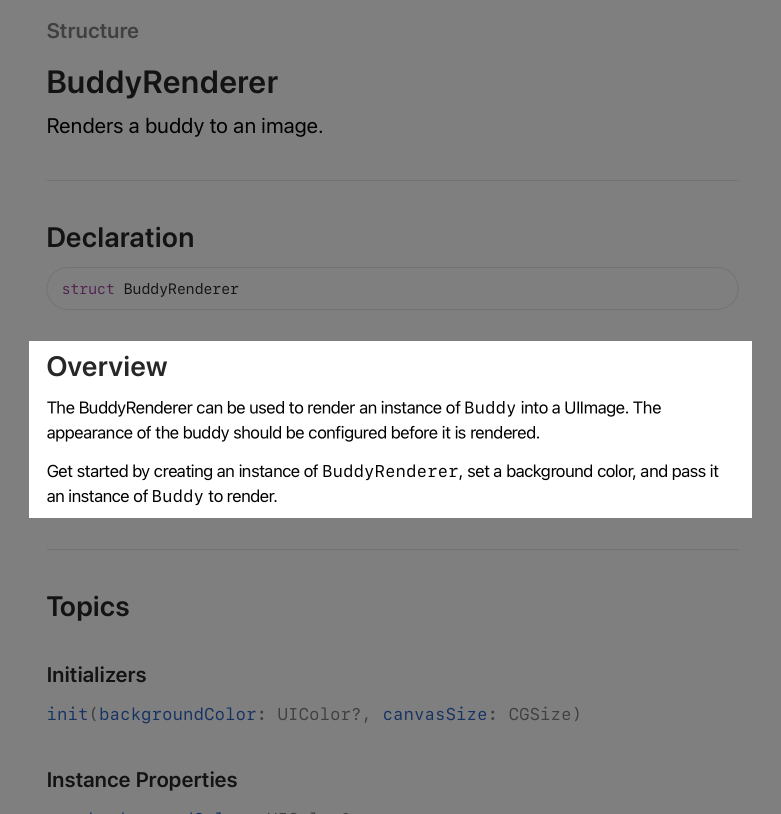
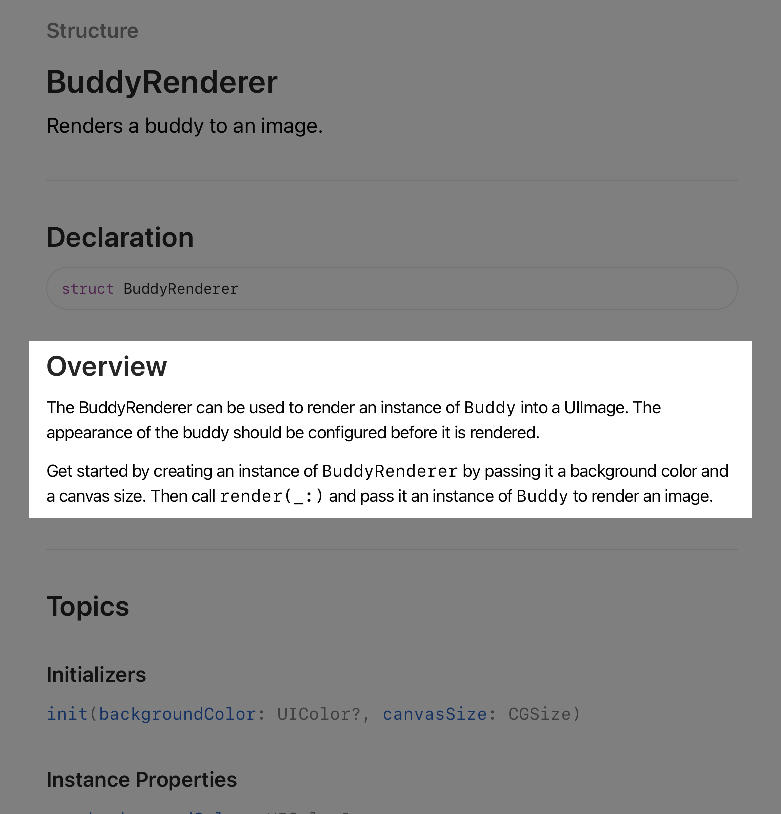
Improves documentation of BuddyRenderer

diff --git a/LearningMaterial/Sources/LearningMaterial/Documentation.docc/Tutorials/01-writing-the-first-documentation-02-11.swift b/LearningMaterial/Sources/LearningMaterial/Documentation.docc/Tutorials/01-writing-the-first-documentation-02-11.swift
@@ -4,17 +4,18 @@ import UIKit
 ///
 /// The BuddyRenderer can be used to render an instance of ``Buddy`` into a UIImage. The appearance of the buddy should be configured before it is rendered.
 ///
-/// Get started by creating an instance of `BuddyRenderer`, set a background color, and pass it an instance of ``Buddy`` to render.
+/// Get started by creating an instance of `BuddyRenderer` by passing it a background color and a canvas size. Then call ``render(_:)`` and pass it an instance of ``Buddy`` to render an image.
 ///
 /// ```swift
 /// let buddy = Buddy()
-/// let renderer = BuddyRenderer(backgroundColor: .systemPurple)
+/// let canvasSize = CGSize(width: 600, height: 600)
+/// let renderer = BuddyRenderer(backgroundColor: .systemPurple, canvasSize: canvasSize)
 /// let image = renderer.render(buddy)
 /// ```
 ///
 /// Here's an image produced by an instance of `BuddyRenderer`:
 ///
-/// ![A character produced by BuildABuddyKit rendered on a background with a solid color](buddyrenderer-output-example.jpeg)
+/// ![](buddyrenderer-output-example.jpeg)
 public struct BuddyRenderer {
     /// The background color of the rendered image.
     ///
@@ -41,6 +42,7 @@ public struct BuddyRenderer {
     /// - Parameter buddy: The buddy to render.
     /// - Returns: A UIImage representation of the rendered image.
     public func render(_ buddy: Buddy) -> UIImage {
+        let scale = CGPoint(x: canvasSize.width / 600, y: canvasSize.height / 600)
         let format = UIGraphicsImageRendererFormat()
         format.scale = 1
         format.opaque = false
@@ -60,6 +62,7 @@ public struct BuddyRenderer {
                     // Rotate the image and then render the rotated image. This makes it easier to transfer values from Sketch to code.
                     let transformedImage = image.flipped(asset.flipped).rotated(by: asset.rotation)
                     cgContext.saveGState()
+                    cgContext.scaleBy(x: scale.x, y: scale.y)
                     transformedImage.draw(at: asset.position)
                     cgContext.restoreGState()
                 }

diff --git a/LearningMaterial/Sources/LearningMaterial/Documentation.docc/Tutorials/01-writing-the-first-documentation-02-09.swift b/LearningMaterial/Sources/LearningMaterial/Documentation.docc/Tutorials/01-writing-the-first-documentation-02-09.swift
@@ -4,11 +4,12 @@ import UIKit
 ///
 /// The BuddyRenderer can be used to render an instance of ``Buddy`` into a UIImage. The appearance of the buddy should be configured before it is rendered.
 ///
-/// Get started by creating an instance of `BuddyRenderer`, set a background color, and pass it an instance of ``Buddy`` to render.
+/// Get started by creating an instance of `BuddyRenderer` by passing it a background color and a canvas size. Then call ``render(_:)`` and pass it an instance of ``Buddy`` to render an image.
 ///
 /// ```swift
 /// let buddy = Buddy()
-/// let renderer = BuddyRenderer(backgroundColor: .systemPurple)
+/// let canvasSize = CGSize(width: 600, height: 600)
+/// let renderer = BuddyRenderer(backgroundColor: .systemPurple, canvasSize: canvasSize)
 /// let image = renderer.render(buddy)
 /// ```
 public struct BuddyRenderer {
@@ -37,6 +38,7 @@ public struct BuddyRenderer {
     /// - Parameter buddy: The buddy to render.
     /// - Returns: A UIImage representation of the rendered image.
     public func render(_ buddy: Buddy) -> UIImage {
+        let scale = CGPoint(x: canvasSize.width / 600, y: canvasSize.height / 600)
         let format = UIGraphicsImageRendererFormat()
         format.scale = 1
         format.opaque = false
@@ -56,6 +58,7 @@ public struct BuddyRenderer {
                     // Rotate the image and then render the rotated image. This makes it easier to transfer values from Sketch to code.
                     let transformedImage = image.flipped(asset.flipped).rotated(by: asset.rotation)
                     cgContext.saveGState()
+                    cgContext.scaleBy(x: scale.x, y: scale.y)
                     transformedImage.draw(at: asset.position)
                     cgContext.restoreGState()
                 }

diff --git a/LearningMaterial/Sources/LearningMaterial/Documentation.docc/Tutorials/01-writing-the-first-documentation-02-10.swift b/LearningMaterial/Sources/LearningMaterial/Documentation.docc/Tutorials/01-writing-the-first-documentation-02-10.swift
@@ -4,11 +4,12 @@ import UIKit
 ///
 /// The BuddyRenderer can be used to render an instance of ``Buddy`` into a UIImage. The appearance of the buddy should be configured before it is rendered.
 ///
-/// Get started by creating an instance of `BuddyRenderer`, set a background color, and pass it an instance of ``Buddy`` to render.
+/// Get started by creating an instance of `BuddyRenderer` by passing it a background color and a canvas size. Then call ``render(_:)`` and pass it an instance of ``Buddy`` to render an image.
 ///
 /// ```swift
 /// let buddy = Buddy()
-/// let renderer = BuddyRenderer(backgroundColor: .systemPurple)
+/// let canvasSize = CGSize(width: 600, height: 600)
+/// let renderer = BuddyRenderer(backgroundColor: .systemPurple, canvasSize: canvasSize)
 /// let image = renderer.render(buddy)
 /// ```
 ///
@@ -39,6 +40,7 @@ public struct BuddyRenderer {
     /// - Parameter buddy: The buddy to render.
     /// - Returns: A UIImage representation of the rendered image.
     public func render(_ buddy: Buddy) -> UIImage {
+        let scale = CGPoint(x: canvasSize.width / 600, y: canvasSize.height / 600)
         let format = UIGraphicsImageRendererFormat()
         format.scale = 1
         format.opaque = false
@@ -58,6 +60,7 @@ public struct BuddyRenderer {
                     // Rotate the image and then render the rotated image. This makes it easier to transfer values from Sketch to code.
                     let transformedImage = image.flipped(asset.flipped).rotated(by: asset.rotation)
                     cgContext.saveGState()
+                    cgContext.scaleBy(x: scale.x, y: scale.y)
                     transformedImage.draw(at: asset.position)
                     cgContext.restoreGState()
                 }

diff --git a/LearningMaterial/Sources/LearningMaterial/Documentation.docc/Tutorials/01-writing-the-first-documentation-02-05.swift b/LearningMaterial/Sources/LearningMaterial/Documentation.docc/Tutorials/01-writing-the-first-documentation-02-05.swift
@@ -4,11 +4,12 @@ import UIKit
 ///
 /// The BuddyRenderer can be used to render an instance of ``Buddy`` into a UIImage. The appearance of the buddy should be configured before it is rendered.
 ///
-/// Get started by creating an instance of `BuddyRenderer`, set a background color, and pass it an instance of ``Buddy`` to render.
+/// Get started by creating an instance of `BuddyRenderer` by passing it a background color and a canvas size. Then call ``render(_:)`` and pass it an instance of ``Buddy`` to render an image.
 ///
 /// ```swift
 /// let buddy = Buddy()
-/// let renderer = BuddyRenderer(backgroundColor: .systemPurple)
+/// let canvasSize = CGSize(width: 600, height: 600)
+/// let renderer = BuddyRenderer(backgroundColor: .systemPurple, canvasSize: canvasSize)
 /// let image = renderer.render(buddy)
 /// ```
 public struct BuddyRenderer {
@@ -21,6 +22,7 @@ public struct BuddyRenderer {
     }
 
     public func render(_ buddy: Buddy) -> UIImage {
+        let scale = CGPoint(x: canvasSize.width / 600, y: canvasSize.height / 600)
         let format = UIGraphicsImageRendererFormat()
         format.scale = 1
         format.opaque = false
@@ -40,6 +42,7 @@ public struct BuddyRenderer {
                     // Rotate the image and then render the rotated image. This makes it easier to transfer values from Sketch to code.
                     let transformedImage = image.flipped(asset.flipped).rotated(by: asset.rotation)
                     cgContext.saveGState()
+                    cgContext.scaleBy(x: scale.x, y: scale.y)
                     transformedImage.draw(at: asset.position)
                     cgContext.restoreGState()
                 }

diff --git a/LearningMaterial/Sources/LearningMaterial/Documentation.docc/Tutorials/01-writing-the-first-documentation-02-06.swift b/LearningMaterial/Sources/LearningMaterial/Documentation.docc/Tutorials/01-writing-the-first-documentation-02-06.swift
@@ -4,11 +4,12 @@ import UIKit
 ///
 /// The BuddyRenderer can be used to render an instance of ``Buddy`` into a UIImage. The appearance of the buddy should be configured before it is rendered.
 ///
-/// Get started by creating an instance of `BuddyRenderer`, set a background color, and pass it an instance of ``Buddy`` to render.
+/// Get started by creating an instance of `BuddyRenderer` by passing it a background color and a canvas size. Then call ``render(_:)`` and pass it an instance of ``Buddy`` to render an image.
 ///
 /// ```swift
 /// let buddy = Buddy()
-/// let renderer = BuddyRenderer(backgroundColor: .systemPurple)
+/// let canvasSize = CGSize(width: 600, height: 600)
+/// let renderer = BuddyRenderer(backgroundColor: .systemPurple, canvasSize: canvasSize)
 /// let image = renderer.render(buddy)
 /// ```
 public struct BuddyRenderer {
@@ -27,6 +28,7 @@ public struct BuddyRenderer {
     }
 
     public func render(_ buddy: Buddy) -> UIImage {
+        let scale = CGPoint(x: canvasSize.width / 600, y: canvasSize.height / 600)
         let format = UIGraphicsImageRendererFormat()
         format.scale = 1
         format.opaque = false
@@ -46,6 +48,7 @@ public struct BuddyRenderer {
                     // Rotate the image and then render the rotated image. This makes it easier to transfer values from Sketch to code.
                     let transformedImage = image.flipped(asset.flipped).rotated(by: asset.rotation)
                     cgContext.saveGState()
+                    cgContext.scaleBy(x: scale.x, y: scale.y)
                     transformedImage.draw(at: asset.position)
                     cgContext.restoreGState()
                 }

diff --git a/LearningMaterial/Sources/LearningMaterial/Documentation.docc/Tutorials/01-writing-the-first-documentation-02-07.swift b/LearningMaterial/Sources/LearningMaterial/Documentation.docc/Tutorials/01-writing-the-first-documentation-02-07.swift
@@ -4,11 +4,12 @@ import UIKit
 ///
 /// The BuddyRenderer can be used to render an instance of ``Buddy`` into a UIImage. The appearance of the buddy should be configured before it is rendered.
 ///
-/// Get started by creating an instance of `BuddyRenderer`, set a background color, and pass it an instance of ``Buddy`` to render.
+/// Get started by creating an instance of `BuddyRenderer` by passing it a background color and a canvas size. Then call ``render(_:)`` and pass it an instance of ``Buddy`` to render an image.
 ///
 /// ```swift
 /// let buddy = Buddy()
-/// let renderer = BuddyRenderer(backgroundColor: .systemPurple)
+/// let canvasSize = CGSize(width: 600, height: 600)
+/// let renderer = BuddyRenderer(backgroundColor: .systemPurple, canvasSize: canvasSize)
 /// let image = renderer.render(buddy)
 /// ```
 public struct BuddyRenderer {
@@ -31,6 +32,7 @@ public struct BuddyRenderer {
     }
 
     public func render(_ buddy: Buddy) -> UIImage {
+        let scale = CGPoint(x: canvasSize.width / 600, y: canvasSize.height / 600)
         let format = UIGraphicsImageRendererFormat()
         format.scale = 1
         format.opaque = false
@@ -50,6 +52,7 @@ public struct BuddyRenderer {
                     // Rotate the image and then render the rotated image. This makes it easier to transfer values from Sketch to code.
                     let transformedImage = image.flipped(asset.flipped).rotated(by: asset.rotation)
                     cgContext.saveGState()
+                    cgContext.scaleBy(x: scale.x, y: scale.y)
                     transformedImage.draw(at: asset.position)
                     cgContext.restoreGState()
                 }

diff --git a/LearningMaterial/Sources/LearningMaterial/Documentation.docc/Tutorials/01-writing-the-first-documentation-02-08.swift b/LearningMaterial/Sources/LearningMaterial/Documentation.docc/Tutorials/01-writing-the-first-documentation-02-08.swift
@@ -4,11 +4,12 @@ import UIKit
 ///
 /// The BuddyRenderer can be used to render an instance of ``Buddy`` into a UIImage. The appearance of the buddy should be configured before it is rendered.
 ///
-/// Get started by creating an instance of `BuddyRenderer`, set a background color, and pass it an instance of ``Buddy`` to render.
+/// Get started by creating an instance of `BuddyRenderer` by passing it a background color and a canvas size. Then call ``render(_:)`` and pass it an instance of ``Buddy`` to render an image.
 ///
 /// ```swift
 /// let buddy = Buddy()
-/// let renderer = BuddyRenderer(backgroundColor: .systemPurple)
+/// let canvasSize = CGSize(width: 600, height: 600)
+/// let renderer = BuddyRenderer(backgroundColor: .systemPurple, canvasSize: canvasSize)
 /// let image = renderer.render(buddy)
 /// ```
 public struct BuddyRenderer {
@@ -31,6 +32,7 @@ public struct BuddyRenderer {
     }
 
     public func render(_ buddy: Buddy) -> UIImage {
+        let scale = CGPoint(x: canvasSize.width / 600, y: canvasSize.height / 600)
         let format = UIGraphicsImageRendererFormat()
         format.scale = 1
         format.opaque = false
@@ -50,6 +52,7 @@ public struct BuddyRenderer {
                     // Rotate the image and then render the rotated image. This makes it easier to transfer values from Sketch to code.
                     let transformedImage = image.flipped(asset.flipped).rotated(by: asset.rotation)
                     cgContext.saveGState()
+                    cgContext.scaleBy(x: scale.x, y: scale.y)
                     transformedImage.draw(at: asset.position)
                     cgContext.restoreGState()
                 }

diff --git a/LearningMaterial/Sources/LearningMaterial/Documentation.docc/Tutorials/01-writing-the-first-documentation-02-04.swift b/LearningMaterial/Sources/LearningMaterial/Documentation.docc/Tutorials/01-writing-the-first-documentation-02-04.swift
@@ -4,7 +4,7 @@ import UIKit
 ///
 /// The BuddyRenderer can be used to render an instance of ``Buddy`` into a UIImage. The appearance of the buddy should be configured before it is rendered.
 ///
-/// Get started by creating an instance of `BuddyRenderer`, set a background color, and pass it an instance of ``Buddy`` to render.
+/// Get started by creating an instance of `BuddyRenderer` by passing it a background color and a canvas size. Then call ``render(_:)`` and pass it an instance of ``Buddy`` to render an image.
 public struct BuddyRenderer {
     public var backgroundColor: UIColor?
     public var canvasSize: CGSize
@@ -15,6 +15,7 @@ public struct BuddyRenderer {
     }
 
     public func render(_ buddy: Buddy) -> UIImage {
+        let scale = CGPoint(x: canvasSize.width / 600, y: canvasSize.height / 600)
         let format = UIGraphicsImageRendererFormat()
         format.scale = 1
         format.opaque = false
@@ -34,6 +35,7 @@ public struct BuddyRenderer {
                     // Rotate the image and then render the rotated image. This makes it easier to transfer values from Sketch to code.
                     let transformedImage = image.flipped(asset.flipped).rotated(by: asset.rotation)
                     cgContext.saveGState()
+                    cgContext.scaleBy(x: scale.x, y: scale.y)
                     transformedImage.draw(at: asset.position)
                     cgContext.restoreGState()
                 }

diff --git a/LearningMaterial/Sources/LearningMaterial/Documentation.docc/Tutorials/01-writing-the-first-documentation-02-03.swift b/LearningMaterial/Sources/LearningMaterial/Documentation.docc/Tutorials/01-writing-the-first-documentation-02-03.swift
@@ -4,7 +4,7 @@ import UIKit
 ///
 /// The BuddyRenderer can be used to render an instance of `Buddy` into a UIImage. The appearance of the buddy should be configured before it is rendered.
 ///
-/// Get started by creating an instance of `BuddyRenderer`, set a background color, and pass it an instance of `Buddy` to render.
+/// Get started by creating an instance of `BuddyRenderer` by passing it a background color and a canvas size. Then call `render(_:)` and pass it an instance of `Buddy` to render an image.
 public struct BuddyRenderer {
     public var backgroundColor: UIColor?
     public var canvasSize: CGSize
@@ -15,6 +15,7 @@ public struct BuddyRenderer {
     }
 
     public func render(_ buddy: Buddy) -> UIImage {
+        let scale = CGPoint(x: canvasSize.width / 600, y: canvasSize.height / 600)
         let format = UIGraphicsImageRendererFormat()
         format.scale = 1
         format.opaque = false
@@ -34,6 +35,7 @@ public struct BuddyRenderer {
                     // Rotate the image and then render the rotated image. This makes it easier to transfer values from Sketch to code.
                     let transformedImage = image.flipped(asset.flipped).rotated(by: asset.rotation)
                     cgContext.saveGState()
+                    cgContext.scaleBy(x: scale.x, y: scale.y)
                     transformedImage.draw(at: asset.position)
                     cgContext.restoreGState()
                 }

diff --git a/Sources/BuildABuddyKit/Public/BuddyRenderer.swift b/Sources/BuildABuddyKit/Public/BuddyRenderer.swift
@@ -4,11 +4,12 @@ import UIKit
 ///
 /// The BuddyRenderer can be used to render an instance of ``Buddy`` into a UIImage. The appearance of the buddy should be configured before it is rendered.
 ///
-/// Get started by creating an instance of `BuddyRenderer`, set a background color, and pass it an instance of ``Buddy`` to render.
+/// Get started by creating an instance of `BuddyRenderer` by passing it a background color and a canvas size. Then call ``render(_:)`` and pass it an instance of ``Buddy`` to render an image.
 ///
 /// ```swift
 /// let buddy = Buddy()
-/// let renderer = BuddyRenderer(backgroundColor: .systemPurple)
+/// let canvasSize = CGSize(width: 600, height: 600)
+/// let renderer = BuddyRenderer(backgroundColor: .systemPurple, canvasSize: canvasSize)
 /// let image = renderer.render(buddy)
 /// ```
 ///

diff --git a/LearningMaterial/Sources/LearningMaterial/Documentation.docc/Tutorials/01-writing-the-first-documentation-02-01.swift b/LearningMaterial/Sources/LearningMaterial/Documentation.docc/Tutorials/01-writing-the-first-documentation-02-01.swift
@@ -10,6 +10,7 @@ public struct BuddyRenderer {
     }
 
     public func render(_ buddy: Buddy) -> UIImage {
+        let scale = CGPoint(x: canvasSize.width / 600, y: canvasSize.height / 600)
         let format = UIGraphicsImageRendererFormat()
         format.scale = 1
         format.opaque = false
@@ -29,6 +30,7 @@ public struct BuddyRenderer {
                     // Rotate the image and then render the rotated image. This makes it easier to transfer values from Sketch to code.
                     let transformedImage = image.flipped(asset.flipped).rotated(by: asset.rotation)
                     cgContext.saveGState()
+                    cgContext.scaleBy(x: scale.x, y: scale.y)
                     transformedImage.draw(at: asset.position)
                     cgContext.restoreGState()
                 }

diff --git a/LearningMaterial/Sources/LearningMaterial/Documentation.docc/Tutorials/01-writing-the-first-documentation-02-02.swift b/LearningMaterial/Sources/LearningMaterial/Documentation.docc/Tutorials/01-writing-the-first-documentation-02-02.swift
@@ -11,6 +11,7 @@ public struct BuddyRenderer {
     }
 
     public func render(_ buddy: Buddy) -> UIImage {
+        let scale = CGPoint(x: canvasSize.width / 600, y: canvasSize.height / 600)
         let format = UIGraphicsImageRendererFormat()
         format.scale = 1
         format.opaque = false
@@ -30,6 +31,7 @@ public struct BuddyRenderer {
                     // Rotate the image and then render the rotated image. This makes it easier to transfer values from Sketch to code.
                     let transformedImage = image.flipped(asset.flipped).rotated(by: asset.rotation)
                     cgContext.saveGState()
+                    cgContext.scaleBy(x: scale.x, y: scale.y)
                     transformedImage.draw(at: asset.position)
                     cgContext.restoreGState()
                 }
